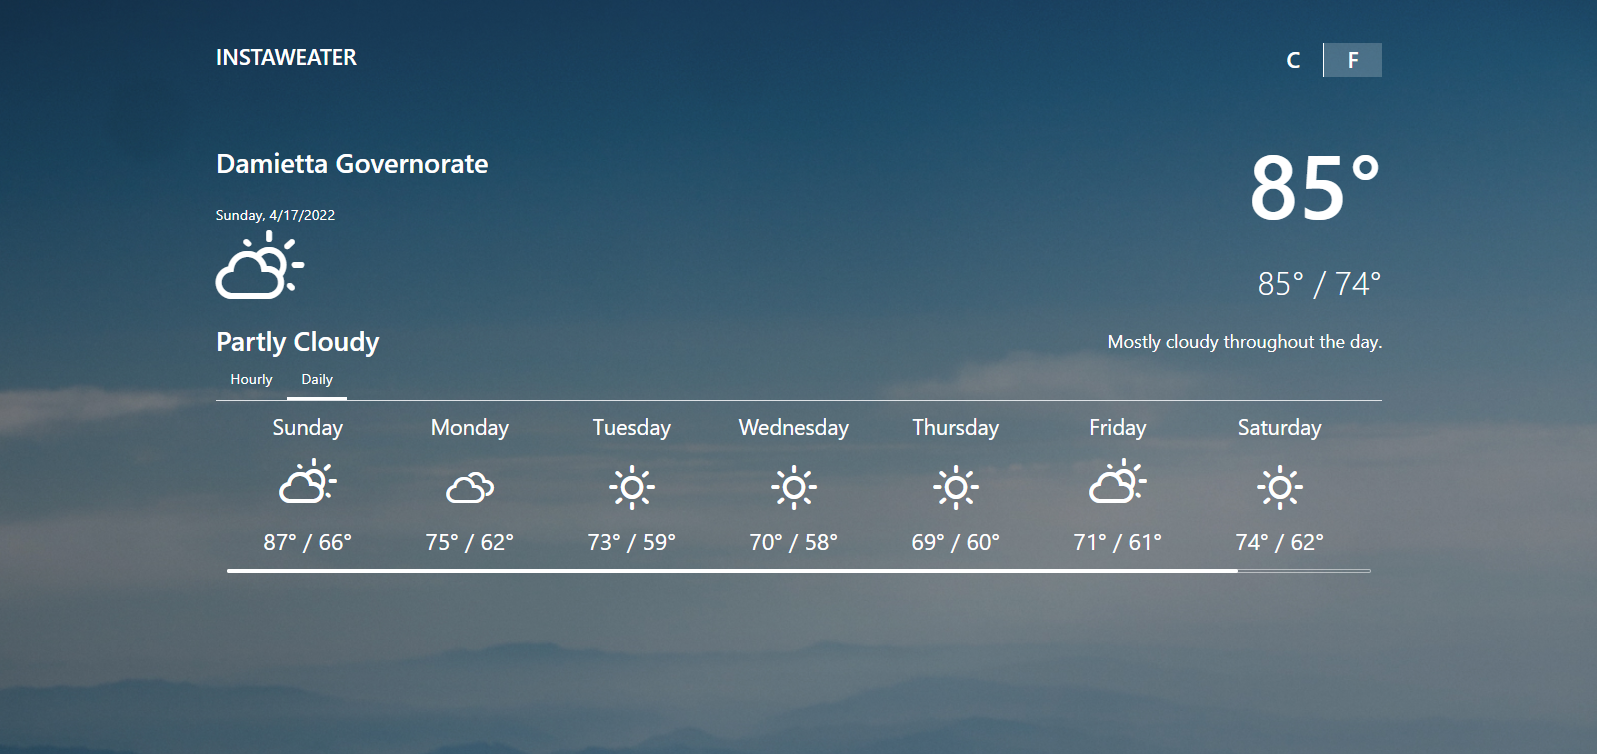
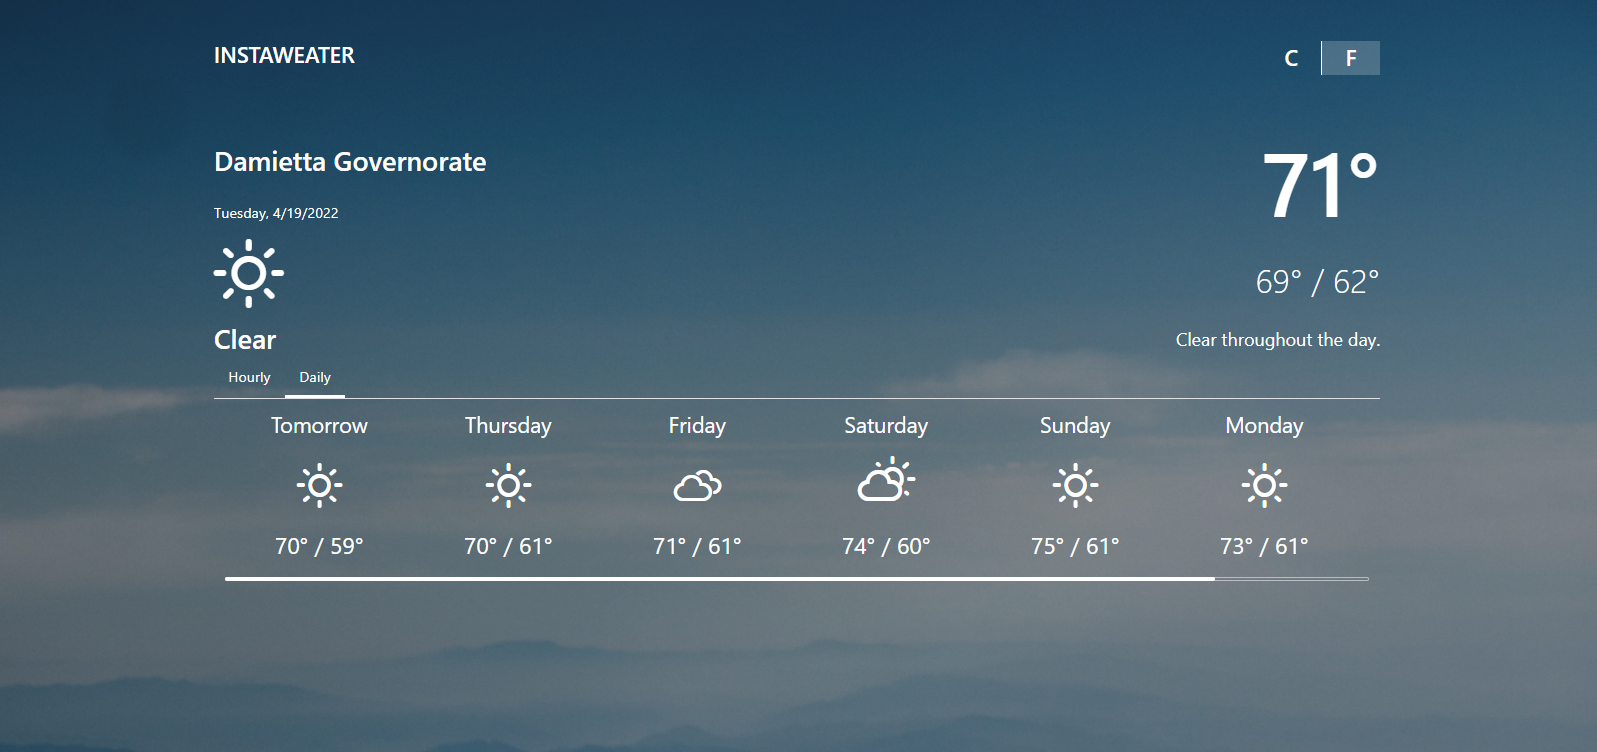
Final updates' commit

diff --git a/src/components/MainView.js b/src/components/MainView.js
@@ -62,29 +62,29 @@ const MainView = () => {
 
     /* Extracting the data out of the request body */
     // Main temperature
-    let fTemp = data ? Math.round(data.currently.temperature) : null;
+    let fTemp = data && Math.round(data.currently.temperature);
     let cTemp = Math.round((fTemp - 32) / 1.8);
 
     // Summary
-    let summary = data ? data.currently.summary : null;
-    let aggregatedSummary = data ? data.hourly.summary : null;
+    let summary = data && data.currently.summary;
+    let aggregatedSummary = data && data.hourly.summary;
 
     // Daily temperature
-    let dailyTemperature = data ? data.daily.data : null;
+    let dailyTemperature = data && data.daily.data;
 
     /* Hourly temperature */
-    let firstHourTemp = data ? Math.round(data.hourly.data[0].temperature) : null;
-    let lasttHourTemp = data ? Math.round(data.hourly.data[22].temperature) : null;
-    let hourlyTemperature = data ? data.hourly.data : null;
+    let firstHourTemp = data && Math.round(data.hourly.data[0].temperature);
+    let lasttHourTemp = data && Math.round(data.hourly.data[22].temperature);
+    let hourlyTemperature = data && data.hourly.data;
 
     // Convert to celsius
     let cFirstHourTemp = Math.round((firstHourTemp - 32) / 1.8);
     let cLastHourTemp = Math.round((lasttHourTemp - 32) / 1.8);
 
     // Get city name
-    let city = cityName ? cityName.locality : null;
+    let city = cityName && cityName.locality;
     // Get Icon
-    let iconType = data ? data.currently.icon : null;
+    let iconType = data && data.currently.icon;
     /*End extract data*/
 
     return (
@@ -102,7 +102,7 @@ const MainView = () => {
                 <Col lg={6} md={6} sm={6}>
                     <div className='text-sm-start d-sm-flex flex-column'>
                         <br />
-                        <span id='location'>{city}</span><br/>
+                        <span id='location'>{city}</span><br />
                         <span>{newDate}</span>
                         <div className='icon'>
                             <CurrentIcon iconType={iconType} />
@@ -131,7 +131,7 @@ const MainView = () => {
                 <Tab className='hourly' eventKey="daily" title="Daily">
                     <DailyTemp tempType={tempType} dailyTemperature={dailyTemperature} />
                 </Tab>
-                
+
             </Tabs>
 
         </Container>

diff --git a/src/components/DailyTemp.js b/src/components/DailyTemp.js
@@ -7,25 +7,24 @@ const DailyTemp = ({ tempType, dailyTemperature }) => {
 
     const [data, setData] = useState();
     
-    const handleDays = async () => {
-        setTimeout(() => {
-            setData(dailyTemperature);
-        }, 100)
-    }
-    handleDays();
+    useEffect(() => {
+        const handleDays = async () => {
+            setTimeout(() => {
+                dailyTemperature.shift()
+                setData(dailyTemperature);
+            }, 100)
+        }
+        handleDays();
+    })
    
-    console.log(data)
-
 
     return (
         <Container fluid>
             <div className='d-flex flex-row flex-nowrap overflow-auto'>
-                {data ?
+                {data &&
                     data.map((day) => (
                         <DayTemp key={day.time} data={day} tempType={tempType} />
-                    )) :
-
-                    null
+                    ))
                 }
             </div>
         </Container>

diff --git a/src/components/DayTemp.js b/src/components/DayTemp.js
@@ -5,7 +5,13 @@ const DayTemp = ({ data, tempType }) => {
 
   let iconType = data && data.icon;
   const weekday = ["Sunday", "Monday", "Tuesday", "Wednesday", "Thursday", "Friday", "Saturday"];
-  let d = data ? data.time : null;
+  
+  // Get tomorrow day
+  const today = new Date();
+  let tomorrow = weekday[today.getDay() + 1];
+
+  // Get week days
+  let d = data && data.time;
   let date = new Date(d * 1000)
   let day = weekday[date.getDay()];
 
@@ -17,7 +23,7 @@ const DayTemp = ({ data, tempType }) => {
 
   return (
     <div className='card-body-daily text-center'>
-      <p className='days'>{day}</p>
+      <p className='days'>{day === tomorrow ? 'Tomorrow' : day}</p>
       <div className='hourly-icon'><CurrentIcon iconType={iconType} /></div>
       <div className='day-temp'>{tempType ? fHighTemp : cHighTemp}&#176; / {tempType ? fLowTemp : cLowTemp}&#176;</div>
     </div>

diff --git a/src/App.css b/src/App.css
@@ -106,7 +106,7 @@
 
 /* Daily Temp styel */
 .card-body-daily {
-  min-width: 180px;
+  min-width: 210px;
   min-height: auto;
 }
 .days {
@@ -116,8 +116,8 @@
 
 .day-temp {
   font-size: 1.6rem;
-  margin-top: 0.5rem;
-  margin-bottom: 0.7rem;
+  margin-top: 0.9rem;
+  margin-bottom: 1rem;
 }
 /* End Daily Temp */
 
@@ -139,7 +139,7 @@
   background: rgba(255, 255, 255, 0.5);
 }
 
-
+/* Mid-point respositivity */
 @media (max-width: 768px) {
   /*Main View*/
   .App {
@@ -184,7 +184,7 @@
   }
   /* Daily Temperature*/
   .card-body-daily {
-    min-width: 62px;
+    min-width: 82px;
   }
   .days {
     font-size: 0.7rem;

diff --git a/src/components/HourlyTemp.js b/src/components/HourlyTemp.js
@@ -18,13 +18,10 @@ const Hourly = ({ hourlyTemperature, tempType }) => {
   return (
     <Container fluid>
       <div className='d-flex flex-row flex-nowrap overflow-auto'>
-        {data ?
-
+        {data &&
           data.map((h) => (
             <HourTemp key={h.time} data={h} tempType={tempType} />
-          )) :
-
-          null
+          ))
         }
       </div>
     </Container>

diff --git a/src/components/HourTemp.js b/src/components/HourTemp.js
@@ -4,9 +4,9 @@ import CurrentIcon from './CurrentIcon';
 
 const HourTemp = ({ data, tempType }) => {
 
-    let iconType = data ? data.icon : null;
+    let iconType = data && data.icon;
 
-    let fTemp = data ? Math.round(data.temperature) : null;
+    let fTemp = data && Math.round(data.temperature);
     let cTemp = Math.round((fTemp - 32) / 1.8);
 
     const currentTime = new Date();

diff --git a/README.md b/README.md
@@ -1,4 +1,4 @@
-# Robusta Weather application
+# Instaweather application
 
 ## Description
 A weather application that displays the current temperature with 24 hours cast, and daily temperature with seven days cast based on the user's location. The temperature can be displayed in both Fahrenheit and Celsius scales.
